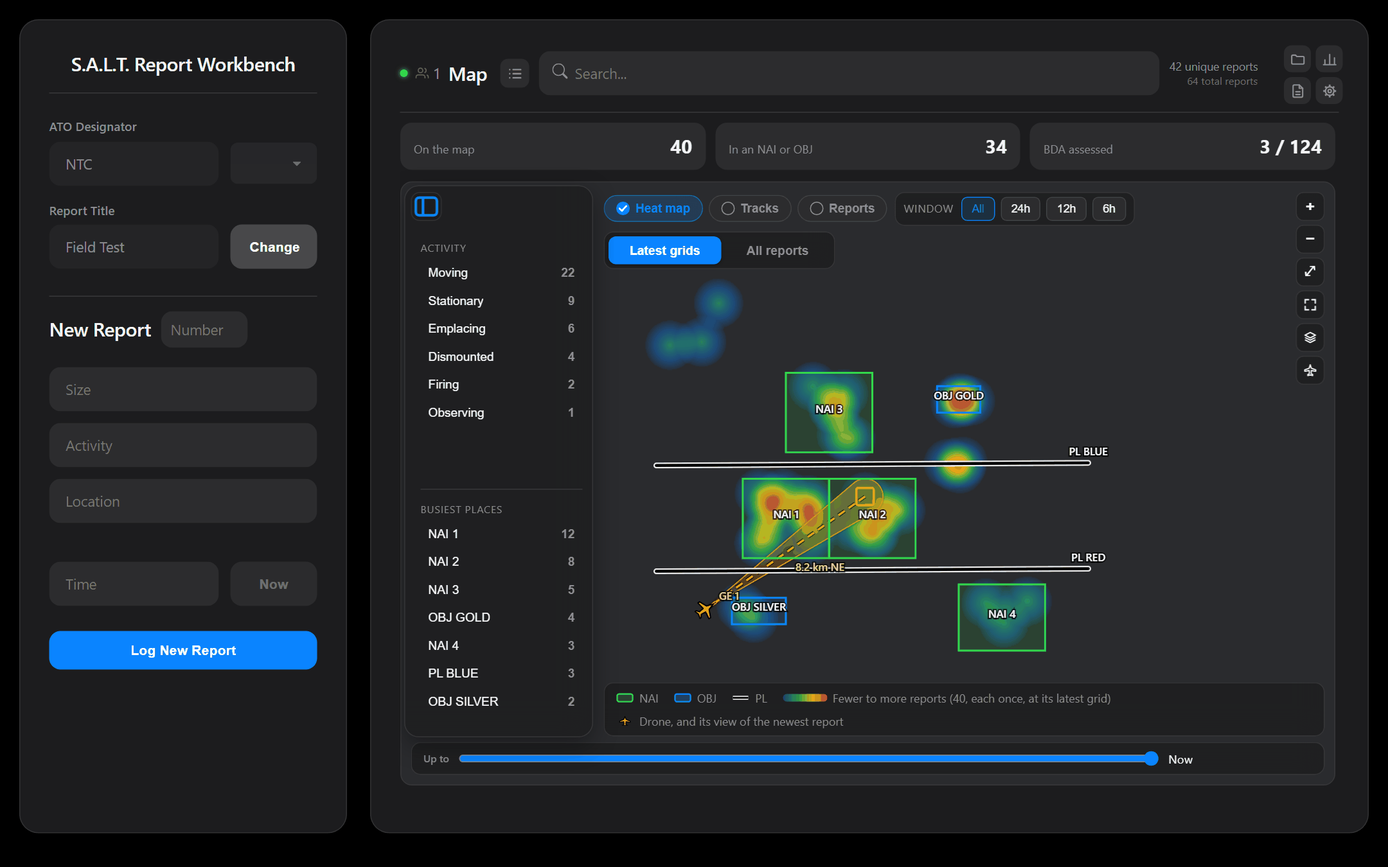
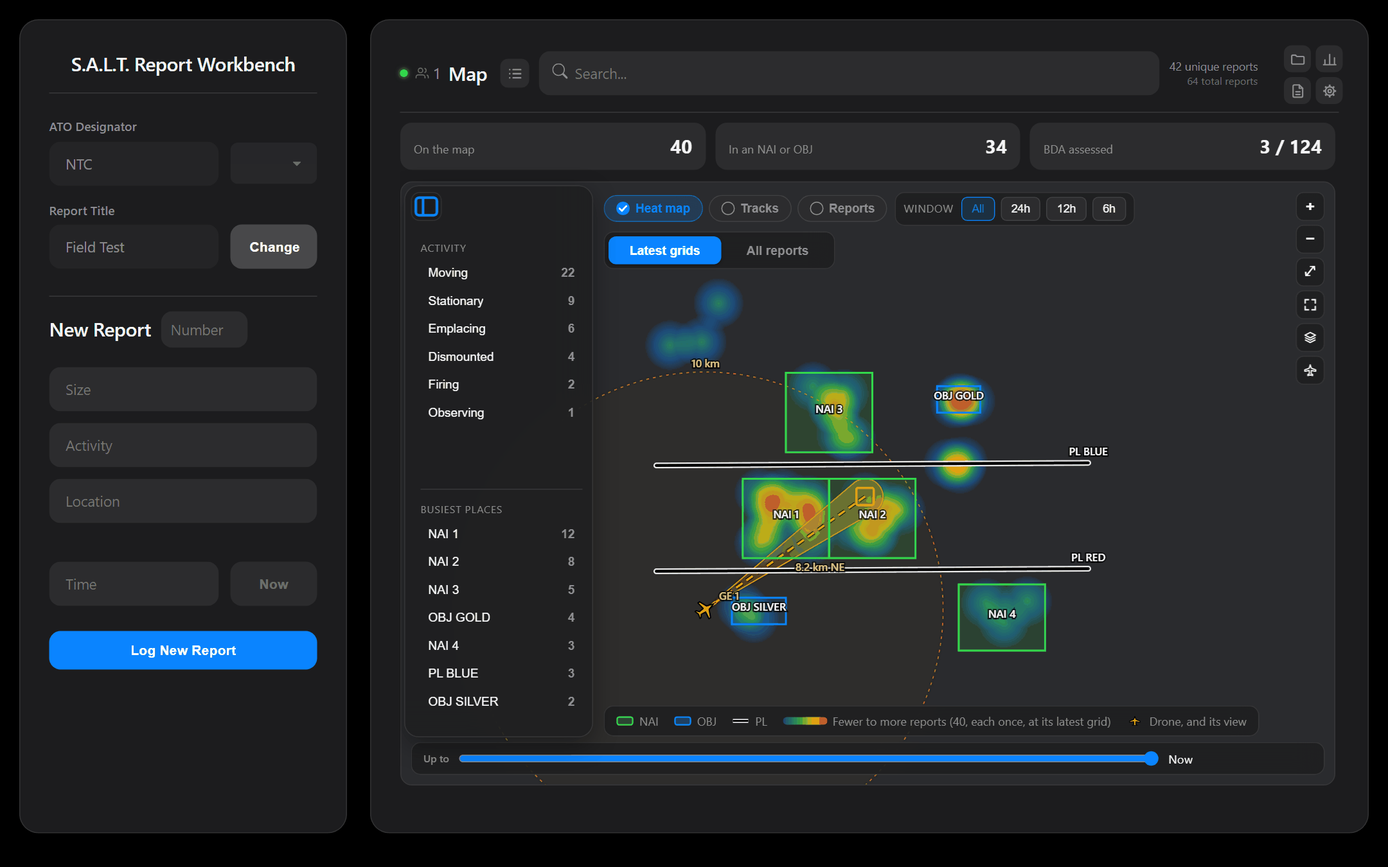
feat: a drone can be told where to look, and given a range that flags a target out of reach
- under each drone, Looking at takes a grid for its view (empty: the newest
  report) and Range a distance in km; both shared, editors set them
- a range draws a faint ring round the drone; a target past it turns the cone,
  sightline and box red, with how far out of range beside them
- /api/save_drones takes optional look (MGRS) and range (0-1,000 km); moving a
  drone keeps both
- tests: validation and persistence, and a browser test pointing a drone past
  its range and back

diff --git a/src/app/46-map.js b/src/app/46-map.js
@@ -114,9 +114,14 @@ const shownDrones = () => (droneShow ? sharedDrones.map(d => ({ d, p: dronePoint
 // A grid as the drones keep it ("11S NV 39697 06762"), from what was typed:
 // digits alone take MGRS Lock's zone and square. Null when it isn't one.
 const droneGrid = (text) => { const g = SaltCore.findGrids(lockedLocation(String(text || '').trim()))[0]; return g ? g.mgrs : null; };
+// Where a drone is looking, when it's been given a grid to look at; without
+// one, its view follows the newest report.
+const lookPoint = (d) => { const g = d.look ? SaltCore.findGrids(d.look)[0] : null; return g ? { lon: g.lon, lat: g.lat } : null; };
+const DRONE_OUT = '#ff453a';   // a view past the drone's range
 const droneTip = (d) => {
     const local = timeDisplayMode === 'local';
-    return `<strong>${escapeHtml(d.name)}</strong><br>${escapeHtml(d.grid)}<br>Put there ${escapeHtml(SaltCore.toTimeString(new Date(d.at).toISOString(), local))}`;
+    return `<strong>${escapeHtml(d.name)}</strong><br>${escapeHtml(d.grid)}<br>Put there ${escapeHtml(SaltCore.toTimeString(new Date(d.at).toISOString(), local))}`
+        + (d.look ? `<br>Looking at ${escapeHtml(d.look)}` : '') + (d.range ? `<br>Range ${d.range} km` : '');
 };
 
 // --- Drawing ---
@@ -343,10 +348,11 @@ const reportLayer = (reps, tracks, px) => {
 };
 
 // Each drone, pointing where it's looking: with its view on, a cone from the
-// drone to the newest report on the map, narrow at the drone and widening to
-// the report (where it's looking, not the camera's footprint, which we don't
-// know), with the sightline down its middle, a box round the report, and the
-// distance and direction. It follows the newest report as reports come in.
+// drone to the grid it was given to look at, else to the newest report on the
+// map, narrow at the drone and widening to a round end (where it's looking,
+// not the camera's footprint, which we don't know), with the sightline down
+// its middle, a box round the target, and the distance and direction. With a
+// range, a faint ring shows it, and a target past it turns the view red.
 const droneLayer = (tracks, px) => {
     const list = shownDrones();
     if (!list.length) return { view: '', marks: '' };
@@ -357,8 +363,15 @@ const droneLayer = (tracks, px) => {
     list.forEach(({ d, p }, i) => {
         const [x, y] = px(p.lon, p.lat);
         let angle = 0;
-        if (newest) {
-            const q = last(newest), [tx, ty] = px(q.lon, q.lat);
+        // Its range, as a ring: metres on the ground to pixels at its latitude.
+        if (droneView && d.range && mapView) {
+            const r = d.range * 1000 / (mapView.mpp * Math.cos(p.lat * Math.PI / 180));
+            cones.push(`<circle class="map-drone-range" cx="${x.toFixed(1)}" cy="${y.toFixed(1)}" r="${r.toFixed(1)}" fill="${DRONE_COLOR}" fill-opacity="0.025" stroke="${DRONE_COLOR}" stroke-opacity="0.6" stroke-width="1.3" stroke-dasharray="3 4"/>`);
+            if (r > 36) marks.push(`<text x="${x.toFixed(1)}" y="${(y - r - 5).toFixed(1)}" text-anchor="middle" class="map-label map-label-drone">${d.range} km</text>`);
+        }
+        const q = droneView ? lookPoint(d) || (newest && last(newest)) : null;
+        if (q) {
+            const [tx, ty] = px(q.lon, q.lat);
             const dx = tx - x, dy = ty - y, len = Math.hypot(dx, dy);
             if (len > 16) {
                 angle = Math.atan2(dx, -dy) * 180 / Math.PI;
@@ -376,20 +389,25 @@ const droneLayer = (tracks, px) => {
                 const ox = nx / hw, oy = ny / hw, gap = hw * 0.5 + 9;
                 const lx = (x + tx) / 2 + ox * gap, ly = (y + ty) / 2 + oy * gap + 4;
                 const anchor = ox < -0.3 ? 'end' : ox > 0.3 ? 'start' : 'middle';
-                defs.push(`<linearGradient id="droneCone${i}" gradientUnits="userSpaceOnUse" x1="${f(x)}" y1="${f(y)}" x2="${f(tx)}" y2="${f(ty)}">`
-                    + `<stop offset="0" stop-color="${DRONE_COLOR}" stop-opacity="0.16"/><stop offset="1" stop-color="${DRONE_COLOR}" stop-opacity="0.42"/></linearGradient>`);
-                const km = (SaltCore.metresBetween(p, q) / 1000).toFixed(1);
+                const metres = SaltCore.metresBetween(p, q);
+                const km = (metres / 1000).toFixed(1);
                 const dir = SaltCore.compass16(SaltCore.bearingBetween(p, q));
-                // Edged in orange, and the dashed sightline over a dark one, so
+                const out = d.range ? metres - d.range * 1000 : 0;   // past its range, in metres
+                const color = out > 0 ? DRONE_OUT : DRONE_COLOR;
+                defs.push(`<linearGradient id="droneCone${i}" gradientUnits="userSpaceOnUse" x1="${f(x)}" y1="${f(y)}" x2="${f(tx)}" y2="${f(ty)}">`
+                    + `<stop offset="0" stop-color="${color}" stop-opacity="0.16"/><stop offset="1" stop-color="${color}" stop-opacity="0.42"/></linearGradient>`);
+                // Edged in its colour, and the dashed sightline over a dark one, so
                 // they hold on a light basemap or a busy heat map.
                 // From one touching point the long way round the far side to the
                 // other (clockwise on screen, more than half the circle).
-                cones.push(`<path class="map-drone-cone" d="M${f(x)},${f(y)} L${f(p1[0])},${f(p1[1])} A${f(hw)},${f(hw)} 0 1 1 ${f(p2[0])},${f(p2[1])} Z" fill="url(#droneCone${i})" stroke="${DRONE_COLOR}" stroke-opacity="0.85" stroke-width="1.2" stroke-linejoin="round"/>`
+                cones.push(`<path class="map-drone-cone${out > 0 ? ' out' : ''}" d="M${f(x)},${f(y)} L${f(p1[0])},${f(p1[1])} A${f(hw)},${f(hw)} 0 1 1 ${f(p2[0])},${f(p2[1])} Z" fill="url(#droneCone${i})" stroke="${color}" stroke-opacity="0.85" stroke-width="1.2" stroke-linejoin="round"/>`
                     + `<line x1="${f(x)}" y1="${f(y)}" x2="${f(tx)}" y2="${f(ty)}" stroke="#000" stroke-width="4" stroke-opacity="0.7" stroke-dasharray="8 5"/>`
-                    + `<line x1="${f(x)}" y1="${f(y)}" x2="${f(tx)}" y2="${f(ty)}" stroke="${DRONE_COLOR}" stroke-width="2.2" stroke-dasharray="8 5"/>`
-                    + `<rect x="${f(tx - 9)}" y="${f(ty - 9)}" width="18" height="18" rx="2" fill="none" stroke="${DRONE_COLOR}" stroke-width="2.4"/>`);
+                    + `<line x1="${f(x)}" y1="${f(y)}" x2="${f(tx)}" y2="${f(ty)}" stroke="${color}" stroke-width="2.2" stroke-dasharray="8 5"/>`
+                    + `<rect x="${f(tx - 9)}" y="${f(ty - 9)}" width="18" height="18" rx="2" fill="none" stroke="${color}" stroke-width="2.4"/>`);
                 // On top, with the drones, so no graphic hides it.
-                marks.push(`<text x="${f(lx)}" y="${f(ly)}" text-anchor="${anchor}" class="map-label map-label-drone">${km} km ${dir}</text>`);
+                // Past its range: how far, on a second line, so the label stays short.
+                const said = out > 0 ? `${km} km ${dir}<tspan x="${f(lx)}" dy="13">${(out / 1000).toFixed(1)} km out of range</tspan>` : `${km} km ${dir}`;
+                marks.push(`<text x="${f(lx)}" y="${f(ly)}" text-anchor="${anchor}" class="map-label map-label-drone${out > 0 ? ' map-label-out' : ''}">${said}</text>`);
             }
         }
         const k = mapItems.push({ kind: 'drone', d }) - 1;
@@ -430,7 +448,7 @@ const mapLegend = (reps, tracks) => {
             : `Fewer to more reports (${heat}, each once, at its latest grid)`),
         mapLayers.tracks && key(trackLine, `Track, first to latest (${tracks.filter(t => t.moved).length} moved${mapLayers.reports ? '' : `, ${tracks.filter(t => !t.moved).length} at one grid`})`),
         shownDrones().length && key('<svg width="18" height="10" aria-hidden="true"><path d="M9,0.5 L10.2,3.6 L14.5,5.3 L14.5,6.4 L10.2,5.8 L9.9,8.4 L11.3,9.5 L6.7,9.5 L8.1,8.4 L7.8,5.8 L3.5,6.4 L3.5,5.3 L7.8,3.6 Z" fill="#ff9f0a" stroke="#000" stroke-width="0.8"/></svg>',
-            droneView ? 'Drone, and its view of the newest report' : 'Drone'),
+            droneView ? 'Drone, and its view' : 'Drone'),
         mapLayers.reports && key(dot, mapAllGrids
             ? `Report, every saved one (${SaltCore.reportPositions(reps, true).length} positions; earlier ones smaller)`
             : `Report, at its latest grid (${tracks.length})`),
@@ -937,7 +955,7 @@ const renderDronePop = () => {
     const toggle = (id, on, label) => `<label class="map-drone-switch"><span>${label}</span><input type="checkbox" class="narr-switch" id="${id}"${on ? ' checked' : ''}></label>`;
     pop.innerHTML = `<div class="map-base-pop-head">Drones</div>
         ${toggle('mapDroneShow', droneShow, 'Show on the map')}
-        ${toggle('mapDroneView', droneView, 'Show its view of the newest report')}
+        ${toggle('mapDroneView', droneView, 'Show its view')}
         ${sharedDrones.length ? `<div class="map-drone-list">${sharedDrones.map((d, i) => `
             <div class="map-drone-row">
                 <span class="map-drone-name">${escapeHtml(d.name)}</span>
@@ -945,13 +963,21 @@ const renderDronePop = () => {
                     : `<input type="text" id="mapDroneGrid${i}" class="map-drone-grid-in" data-drone-grid="${i}" value="${escapeHtml(d.grid)}" maxlength="40" spellcheck="false" aria-label="${escapeHtml(d.name)}'s grid">`}
                 <button type="button" class="text-btn" data-drone-zoom="${i}">Zoom</button>
                 <button type="button" class="overlay-remove editor-only" data-drone-remove="${i}" title="Remove ${escapeHtml(d.name)}" aria-label="Remove ${escapeHtml(d.name)}">&times;</button>
+            </div>
+            <div class="map-drone-sub">
+                <span class="map-drone-sub-label">Looking at</span>
+                ${isReadOnly ? `<span class="map-drone-grid">${escapeHtml(d.look || 'the newest report')}</span>`
+                    : `<input type="text" id="mapDroneLook${i}" class="map-drone-grid-in" data-drone-look="${i}" value="${escapeHtml(d.look || '')}" placeholder="Newest report" maxlength="40" spellcheck="false" aria-label="Where ${escapeHtml(d.name)} is looking">`}
+                <span class="map-drone-sub-label">Range</span>
+                ${isReadOnly ? `<span class="map-drone-grid">${d.range ? `${d.range} km` : 'none'}</span>`
+                    : `<input type="text" id="mapDroneRange${i}" class="map-drone-range-in" data-drone-range="${i}" value="${d.range || ''}" placeholder="km" maxlength="6" inputmode="decimal" aria-label="${escapeHtml(d.name)}'s range in km">`}
             </div>`).join('')}</div>` : '<div class="map-base-none">No drones yet.</div>'}
         <div class="map-form-row map-drone-add editor-only">
             <input type="text" id="mapDroneName" placeholder="Name" maxlength="40" spellcheck="false" aria-label="Drone name (e.g. GE 1)">
             <input type="text" id="mapDroneGridNew" placeholder="Grid" maxlength="40" spellcheck="false" aria-label="Drone grid">
             <button type="button" id="mapDroneAdd" class="set-btn">Add</button>
         </div>
-        <div class="map-base-hint editor-only">Shared with everyone. Type a new grid and press Enter to move a drone.</div>`;
+        <div class="map-base-hint editor-only">Shared with everyone. Type a grid or range and press Enter: a new grid moves the drone, <em>Looking at</em> points its view (empty: the newest report), and its range rings it.</div>`;
     // The add row keeps what was typed; a drone's grid only while it's being changed.
     typed.forEach(([id, v, focused]) => {
         const i = document.getElementById(id);
@@ -1091,6 +1117,29 @@ if (mapBody) {
             if (!grid) { showToast('Type its grid, e.g. 11S NV 39697 06762.', true); return; }
             moved.blur();
             saveDrones(sharedDrones.map(x => (x === d ? { ...d, grid, at: Date.now() } : x)), `${d.name} moved to ${grid}.`);
+        }
+        // Where it's looking (empty: back to the newest report), and its range (empty: none).
+        const look = e.target.closest('[data-drone-look]');
+        if (e.key === 'Enter' && look) {
+            e.preventDefault();
+            const d = sharedDrones[+look.dataset.droneLook], text = look.value.trim(), grid = text ? droneGrid(text) : null;
+            if (!d) return;
+            if (text && !grid) { showToast('Type the grid it\'s looking at, e.g. 11S NV 44000 07000, or leave it empty for the newest report.', true); return; }
+            look.blur();
+            const { look: _, ...rest } = d;
+            saveDrones(sharedDrones.map(x => (x === d ? (grid ? { ...d, look: grid } : rest) : x)),
+                grid ? `${d.name} is looking at ${grid}.` : `${d.name}'s view follows the newest report.`);
+        }
+        const ranged = e.target.closest('[data-drone-range]');
+        if (e.key === 'Enter' && ranged) {
+            e.preventDefault();
+            const d = sharedDrones[+ranged.dataset.droneRange], text = ranged.value.trim().replace(/\s*km$/i, ''), km = Number(text);
+            if (!d) return;
+            if (text && !(km > 0 && km <= 1000)) { showToast('Type its range in km (up to 1,000), or leave it empty for none.', true); return; }
+            ranged.blur();
+            const { range: _, ...rest } = d;
+            saveDrones(sharedDrones.map(x => (x === d ? (text ? { ...d, range: km } : rest) : x)),
+                text ? `${d.name}'s range is ${km} km.` : `${d.name} has no range set.`);
         }
         if (e.key === 'Enter' && (e.target.id === 'mapDroneName' || e.target.id === 'mapDroneGridNew')) { e.preventDefault(); document.getElementById('mapDroneAdd').click(); }
     });

diff --git a/src/index.html b/src/index.html
@@ -395,7 +395,7 @@
                         <li><strong>Ctrl + scroll</strong> to zoom (&#8984; + scroll on a Mac, or pinch on a trackpad; in full screen a plain scroll zooms), drag to move, double-click to zoom in; <strong>+</strong>, <strong>&minus;</strong> and the arrows button (show all). The map covers your overlays and reports and can't be zoomed out past them. Names stay on screen as you zoom in: a shape's name moves to the part of it in view. A plain scroll over the map scrolls the page on, down to the table.</li>
                         <li><strong>Full screen</strong>: the corners button under the zoom buttons fills the screen with the map, its controls and key; <kbd>Esc</kbd> or the button again leaves.</li>
                         <li><strong>The layers button</strong> under the map's zoom buttons switches the basemap: pick one, or <em>No basemap</em>. Editors add and change basemaps in <strong>Manage &rarr; Map</strong>; the button's menu has a link there.</li>
-                        <li><strong>Drones</strong>: the drone button under the layers button lists the drones with their grids. <strong>Show on the map</strong> draws each one, in orange with its name; <strong>Show its view of the newest report</strong> draws a cone from the drone to the newest report on the map, narrow at the drone and widening to a smooth, rounded end round the report, with the sightline down its middle, a box round the report and the distance and direction. It points at what the drone is watching; it isn't the camera's footprint. It moves to each newer report, and follows the time slider and the filters. Both switches are kept in your browser. <strong>Zoom</strong> beside a drone zooms the map in on it. Editors add a drone with a name (e.g. <em>GE 1</em>) and its grid, move it by typing a new grid and pressing <kbd>Enter</kbd> (digits alone take MGRS Lock's zone and square), and remove it with &times;. The drones are shared with everyone; hover one for when it was put there.</li>
+                        <li><strong>Drones</strong>: the drone button under the layers button lists the drones with their grids. <strong>Show on the map</strong> draws each one, in orange with its name; <strong>Show its view</strong> draws a cone from the drone to where it's looking (the newest report on the map, unless it's been given a grid to look at), narrow at the drone and widening to a smooth, rounded end round the report, with the sightline down its middle, a box round the report and the distance and direction. It points at what the drone is watching; it isn't the camera's footprint. It moves to each newer report, and follows the time slider and the filters. Both switches are kept in your browser. <strong>Zoom</strong> beside a drone zooms the map in on it. Editors add a drone with a name (e.g. <em>GE 1</em>) and its grid, move it by typing a new grid and pressing <kbd>Enter</kbd> (digits alone take MGRS Lock's zone and square), and remove it with &times;. Under each drone, <strong>Looking at</strong> takes a grid for its view to point at (press <kbd>Enter</kbd>; empty it to go back to the newest report), and <strong>Range</strong> how far it can see, in km: a faint ring round the drone shows it, and a target past it turns the cone and sightline red, with how far out of range it is beside them. The drones are shared with everyone; hover one for when it was put there, where it's looking and its range.</li>
                         <li><strong>Grab a grid</strong>: hold <kbd>Shift</kbd> over the map and the grid under the pointer shows beside it; <kbd>Shift</kbd> + click copies that grid, ten digits, to paste anywhere. A Shift + click on a report copies its grid instead of opening its card.</li>
                         <li><strong>Basemaps</strong> (editors, in <strong>Manage &rarr; Map</strong>): one box for both kinds of service, and <strong>Add</strong>; each is named for itself (a WMS by its title, a tile service by its host). Paste the link you use in other tools:
                             <ul>

diff --git a/src/styles.css b/src/styles.css
@@ -1228,6 +1228,11 @@ body.read-only #reportLogTable tbody tr:hover:not(.history-sub-row) td { cursor:
 .map-drone-grid, .map-drone-grid-in { font-family: ui-monospace, SFMono-Regular, "SF Mono", Menlo, Consolas, monospace; }
 .map-drone-grid { color: var(--text-secondary); white-space: nowrap; overflow: hidden; text-overflow: ellipsis; }
 .map-drone-grid-in { margin: 0; padding: 5px 8px; font-size: 0.95em; }
+/* Under each drone: where it's looking and its range. */
+.map-drone-sub { display: grid; grid-template-columns: auto minmax(0, 1fr) auto 64px; align-items: center; gap: 8px; padding: 2px 2px 6px; border-bottom: 1px solid var(--divider); font-size: 0.84em; }
+.map-drone-row:has(+ .map-drone-sub) { border-bottom: none; }
+.map-drone-sub-label { color: var(--text-secondary); white-space: nowrap; }
+.map-drone-range-in { margin: 0; padding: 5px 8px; font-size: 0.95em; text-align: right; }
 .map-drone-add input { padding: 7px 10px; font-size: 0.84em; }
 .map-drone-add #mapDroneName { flex: 0 1 120px; }
 .map-drone-add #mapDroneGridNew { flex: 1 1 150px; }
@@ -1393,6 +1398,7 @@ body.mgrs-lock .mgrs-prefix { display: block; }
 .map-grids .io-mode:disabled { opacity: 0.4; cursor: default; }
 .map-label-time { font-weight: 500; font-size: 10px; fill: #ffd60a; }
 .map-label-drone { fill: #ffcc80; }
+.map-label-out { fill: #ff8a80; }
 /* A faint dark edge round the drone's view, so it reads on any background without shouting. */
 .map-drone-view { filter: drop-shadow(0 0 1.2px rgba(0, 0, 0, 0.85)); }
 .map-selected.flash circle { animation: map-ring 0.8s ease-out 2; }

diff --git a/tests/test_browser.py b/tests/test_browser.py
@@ -1403,6 +1403,61 @@ class BrowserTests(unittest.TestCase):
         self.assertFalse(viewer.locator("#mapDroneAdd").is_visible())
         page.evaluate("saveDrones([])")
 
+    def test_drone_view_points_where_told_and_flags_out_of_range(self):
+        page = self.open_editor()
+        self.import_overlays(page)
+        self.log(page, "2x BMP", activity="moving N", location="38SMB4500082000")
+        self.open_map(page)
+        page.evaluate("saveDrones([{ name: 'GE 1', grid: '38S MB 40000 78000', at: Date.now() }])")
+        page.wait_for_selector("#mapSvg .map-drone-cone")
+        page.click("#mapDroneBtn")
+        # Told where to look: the cone points there, not at the newest report.
+        page.fill("#mapDroneLook0", "38SMB4000090000")
+        page.press("#mapDroneLook0", "Enter")
+        page.wait_for_selector(
+            "#toast-notification:has-text('GE 1 is looking at 38S MB 40000 90000')"
+        )
+        page.wait_for_function(
+            "() => [...document.querySelectorAll('#mapSvg .map-label-drone')].some(t => t.textContent === '12.0 km N')"
+        )
+        self.assertEqual(page.locator("#mapSvg .map-drone-range").count(), 0, "no range, no ring")
+        # A range shorter than that: the ring, a red view, and how far out.
+        page.fill("#mapDroneRange0", "10")
+        page.press("#mapDroneRange0", "Enter")
+        page.wait_for_selector("#toast-notification:has-text(\"GE 1's range is 10 km\")")
+        page.wait_for_selector("#mapSvg .map-drone-range")
+        page.wait_for_selector("#mapSvg .map-drone-cone.out")
+        labels = " ".join(page.locator("#mapSvg .map-label-drone").all_text_contents())
+        self.assertIn("2.0 km out of range", labels)
+        self.assertIn("10 km", labels)
+        # Back to the newest report (in range): no longer red; no range: no ring.
+        page.fill("#mapDroneLook0", "")
+        page.press("#mapDroneLook0", "Enter")
+        page.wait_for_selector(
+            "#toast-notification:has-text(\"GE 1's view follows the newest report\")"
+        )
+        page.wait_for_function("() => document.querySelector('#mapSvg .map-drone-cone:not(.out)')")
+        page.fill("#mapDroneRange0", "")
+        page.press("#mapDroneRange0", "Enter")
+        page.wait_for_function("() => !document.querySelector('#mapSvg .map-drone-range')")
+        page.wait_for_function(
+            "() => fetch('/api/sync').then(r => r.json()).then(s => s.drones.length === 1 && !('look' in s.drones[0]) && !('range' in s.drones[0]))"
+        )
+        # Moving it keeps where it looks and its range.
+        page.evaluate("saveDrones([{ ...sharedDrones[0], look: '38S MB 40000 90000', range: 15 }])")
+        page.fill("#mapDroneGrid0", "38SMB4100078000")
+        page.press("#mapDroneGrid0", "Enter")
+        page.wait_for_function(
+            "() => fetch('/api/sync').then(r => r.json()).then(s => s.drones[0].grid === '38S MB 41000 78000' && s.drones[0].range === 15 && s.drones[0].look === '38S MB 40000 90000')"
+        )
+        viewer = self.open_viewer()
+        self.open_map(viewer)
+        viewer.click("#mapDroneBtn")
+        self.assertIn("38S MB 40000 90000", viewer.text_content("#mapDronePop"))
+        self.assertIn("15 km", viewer.text_content("#mapDronePop"))
+        self.assertEqual(viewer.locator("#mapDroneLook0").count(), 0, "viewers can't change it")
+        page.evaluate("saveDrones([])")
+
     def test_shift_click_copies_the_grid_under_it(self):
         self.context.grant_permissions(["clipboard-read", "clipboard-write"], origin=self.editor)
         page = self.open_editor()

diff --git a/tests/test_server.py b/tests/test_server.py
@@ -325,6 +325,11 @@ class ValidatorTests(unittest.TestCase):
         self.assertRejects(v, {"drones": [{**ge, "at": "now"}]}, "milliseconds")
         many = [{**ge, "name": f"GE {i}"} for i in range(11)]
         self.assertRejects(v, {"drones": many}, "too many")
+        # Where it's looking and how far it sees: both optional.
+        self.assertIsNone(v({"drones": [{**ge, "look": "11S NV 44000 07000", "range": 12.5}]}))
+        self.assertRejects(v, {"drones": [{**ge, "look": "the bridge"}]}, "look")
+        for bad in (0, -3, 5000, "10", True):
+            self.assertRejects(v, {"drones": [{**ge, "range": bad}]}, "range")
 
     def test_the_server_knows_every_kind_of_equipment_the_page_has(self):
         import re
@@ -1151,9 +1156,24 @@ class HttpApiTests(unittest.TestCase):
     def test_drones_sync_and_survive_a_restart(self):
         shutil.rmtree(srv.BACKUP_DIR, ignore_errors=True)
         self.post("/api/save_reports", {"ato": "ALPHA", "reports": [report()]})
-        sent = {"name": " GE 1 ", "grid": "11S NV 39697 06762", "at": 1793018940000, "x": 1}
+        sent = {
+            "name": " GE 1 ",
+            "grid": "11S NV 39697 06762",
+            "at": 1793018940000,
+            "x": 1,
+            "look": "11S NV 44000 07000",
+            "range": 12.5,
+        }
         self.assertEqual(self.post("/api/save_drones", {"drones": [sent]})[0], 200)
-        clean = [{"name": "GE 1", "grid": "11S NV 39697 06762", "at": 1793018940000}]
+        clean = [
+            {
+                "name": "GE 1",
+                "grid": "11S NV 39697 06762",
+                "at": 1793018940000,
+                "look": "11S NV 44000 07000",
+                "range": 12.5,
+            }
+        ]
         self.assertEqual(self.sync()["drones"], clean, "trimmed, known fields only")
         srv.flush_pending_save()
         reset_state()

diff --git a/server/salt_sync_server.py b/server/salt_sync_server.py
@@ -428,6 +428,7 @@ MAX_BDA_NOTE = 500
 MAX_OVERLAYS = 500  # NAI / OBJ / PL features per workspace
 MAX_DRONES = 10  # drones on the map
 MAX_DRONE_NAME = 40
+MAX_DRONE_RANGE_KM = 1000  # how far a drone can see, at most
 MAX_OVERLAY_NAME = 40
 MAX_OVERLAY_LABEL = 100
 MAX_BASEMAPS = 20
@@ -898,6 +899,19 @@ def _v_save_drones(data: dict) -> str | None:
             return f'drones[{i}].grid must be an MGRS grid like "11S NV 39697 06762"'
         if not _is_int(d.get('at')):
             return f'drones[{i}].at must be a time in milliseconds'
+        # Optional: where it's looking (a grid), and how far it can see (km).
+        look = d.get('look')
+        if look is not None and (not isinstance(look, str) or not _DRONE_GRID_RE.fullmatch(look)):
+            return f'drones[{i}].look must be an MGRS grid like "11S NV 39697 06762"'
+        rng = d.get('range')
+        if rng is not None and (
+            isinstance(rng, bool)
+            or not isinstance(rng, (int, float))
+            or not 0 < rng <= MAX_DRONE_RANGE_KM
+        ):
+            return (
+                f'drones[{i}].range must be a number of km, more than 0 and ≤{MAX_DRONE_RANGE_KM}'
+            )
     return None
 
 
@@ -2083,7 +2097,13 @@ class SaltSyncHandler(server.BaseHTTPRequestHandler):
 
     def _post_save_drones(self, data: dict) -> None:
         clean = [
-            {'name': d['name'].strip(), 'grid': d['grid'], 'at': d['at']}
+            {
+                'name': d['name'].strip(),
+                'grid': d['grid'],
+                'at': d['at'],
+                **({'look': d['look']} if d.get('look') else {}),
+                **({'range': d['range']} if d.get('range') is not None else {}),
+            }
             for d in data.get('drones') or []
         ]
         with data_lock:

diff --git a/docs/ARCHITECTURE.md b/docs/ARCHITECTURE.md
@@ -135,7 +135,7 @@ handler's `_POST_ROUTES` table, paired with a schema validator in
 | `/api/save_format` | POST | Save the report format (Builder): one for every workspace. An `ato` from an older page is ignored. |
 | `/api/save_overlays` | POST | Replace the shared NAI / OBJ / PL overlays (GeoJSON geometries, longitude/latitude). An empty list clears them. |
 | `/api/save_basemaps` | POST | Replace the map's basemap services: `[{name, kind: wms \| tiles, url, layers?, version?, crs?, format?}]` (at most 20, names unique, http/https only; the last three are what a WMS's capabilities said to ask for). Shared like the overlays and kept in every backup file; each browser picks which to show. |
-| `/api/save_drones` | POST | Replace the drones on the map: `[{name, grid, at}]` (at most 10, names unique, `grid` an MGRS grid as the page writes it, `at` when it was put there, in ms). Shared like the basemaps and kept in every backup file; each browser chooses whether they and their view show. |
+| `/api/save_drones` | POST | Replace the drones on the map: `[{name, grid, at, look?, range?}]` (at most 10, names unique, `grid` and `look` MGRS grids as the page writes them, `at` when it was put there, in ms, `range` in km, more than 0 and at most 1,000). Shared like the basemaps and kept in every backup file; each browser chooses whether they and their view show. |
 | `/api/save_narrative` | POST | Replace the narrative's settings: `{enemy, units: [{name, places, kinds}], equipment: [{type, role, origin}], off: [rule ids], custom: [{what, words, min, hours}]}` (at most 50 units, 500 equipment entries, 30 rules; unit names and equipment types unique; roles and rule ids from the fixed lists, origin `RU`, `CN` or empty; a rule's `min` 1-20 reports within `hours` 1-168). Shared like the basemaps and kept in every backup file. |
 | `/api/wms_fetch` | POST | `{url}`: the server GETs an http(s) address for an editor's page and returns its status, content type, size and text (not images). For WMS capabilities and Check when a service sends no CORS headers. Changes nothing; logged in the audit log. Not on the viewer port. |
 

diff --git a/CHANGELOG.md b/CHANGELOG.md
@@ -14,7 +14,10 @@ All notable changes to this project are documented here. The format follows
   narrow at the drone and widening to a rounded end round the newest report on the map, with the
   sightline down its middle, a box round the report, and the distance and
   direction; it follows newer reports, the time slider and the filters.
-  **Zoom** centres the map on a drone. The drones are shared with everyone;
+  **Zoom** centres the map on a drone. **Looking at** points a drone's view
+  at a grid instead of the newest report, and **Range** (km) rings the drone
+  and turns its view red, with how far out of range, when the target is past
+  it. The drones are shared with everyone;
   showing them and their view is each browser's choice.
 - **Grab a grid.** Shift + click on the map copies the ten-digit grid there;
   while Shift is held, the grid under the pointer shows beside it.

diff --git a/README.md b/README.md
@@ -59,7 +59,7 @@ activities and the busiest places, and a slider shows how things stood earlier.
 Put a drone (a Gray Eagle, say) on it by its grid, and a cone points from the drone
 to the newest report. Shift + click copies the grid of any spot.
 
-![The map: NAIs, objectives and phase lines with a heat map, the activity sidebar on the left, and a drone (GE 1) with a cone widening to the newest report, 8.2 km NE](docs/screenshots/map.png)
+![The map: NAIs, objectives and phase lines with a heat map, the activity sidebar on the left, and a drone (GE 1) with its 10 km range ring and a cone widening to the newest report, 8.2 km NE](docs/screenshots/map.png)
 
 ### Statistics
 
